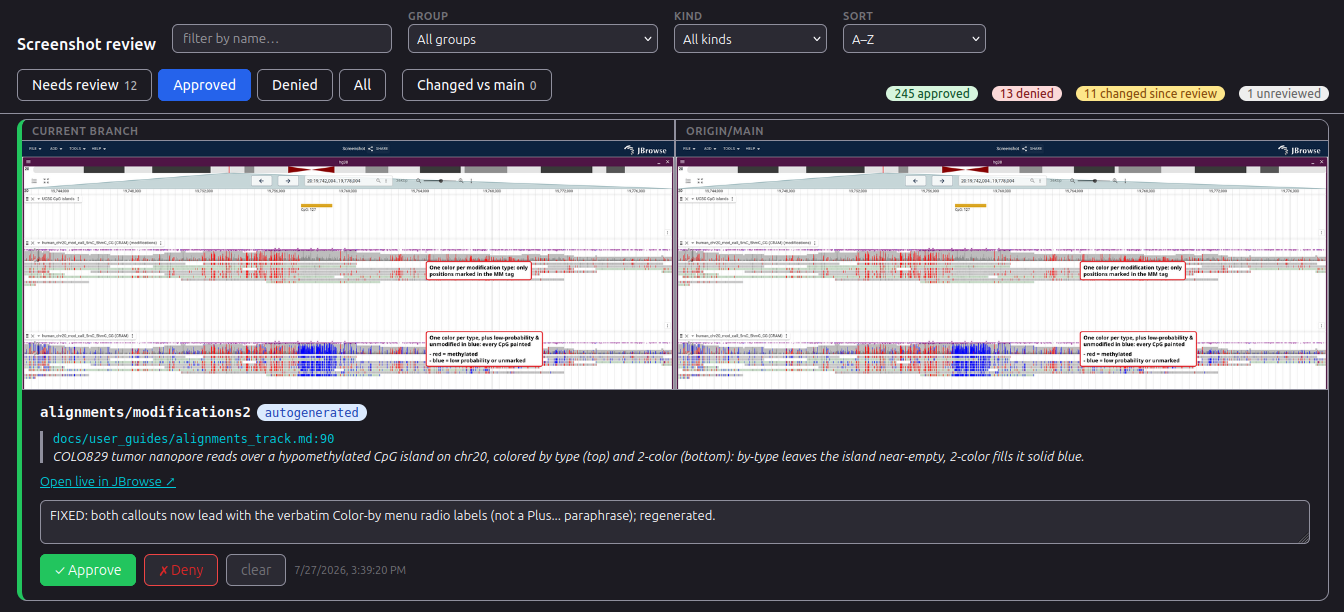
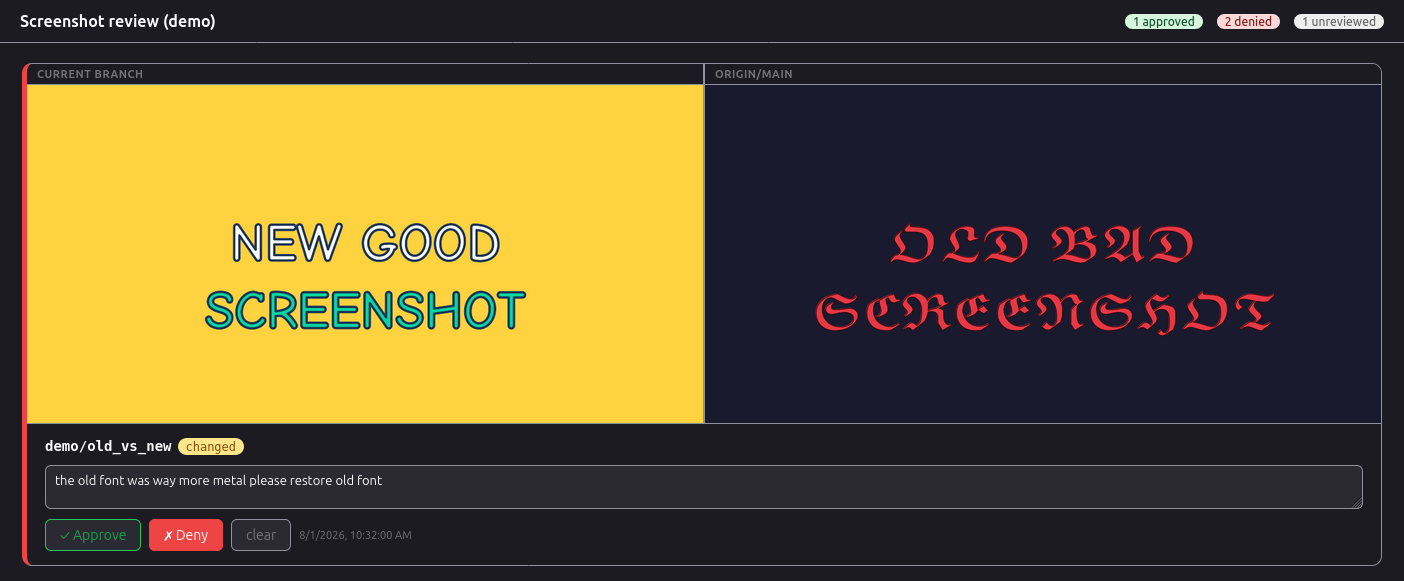
Updates

diff --git a/posts/2026-07-31-autogenscreenshots/index.html b/posts/2026-07-31-autogenscreenshots/index.html
@@ -22,7 +22,7 @@ it writes that to a reviews.json file.</p>
 blurbs, etc) which can be tricky, but here again, accessibility helps to locate
 elements on the page. You can also add things like a tolerance e.g. greater than
 1% of px changed, etc. it just grows with your needs.</p>
-<p><img src="/screenshot-reviews.png" alt="Review app showing each updated screenshot with a textfield for feedback, saved to review.json"></p>
+<p><img src="/screenshot-reviews.png" alt=""></p>
 <h2 id="there-are-many-benefits-to-this-type-of-workflow">There are many benefits to this type of workflow</h2>
 <ul>
 <li>It forces you to exercise real high-value end-to-end user workflows that you
